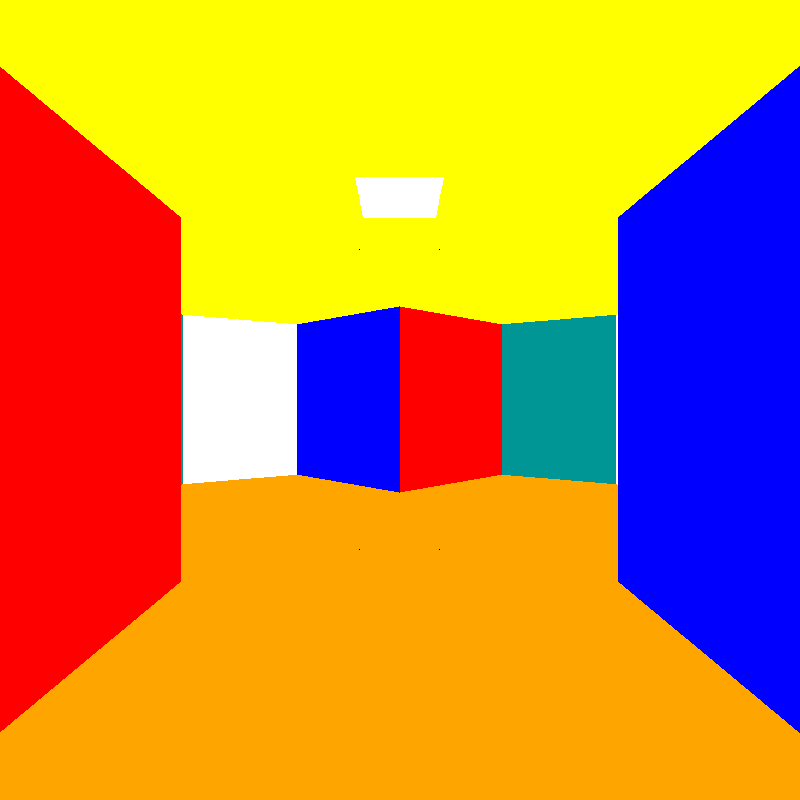
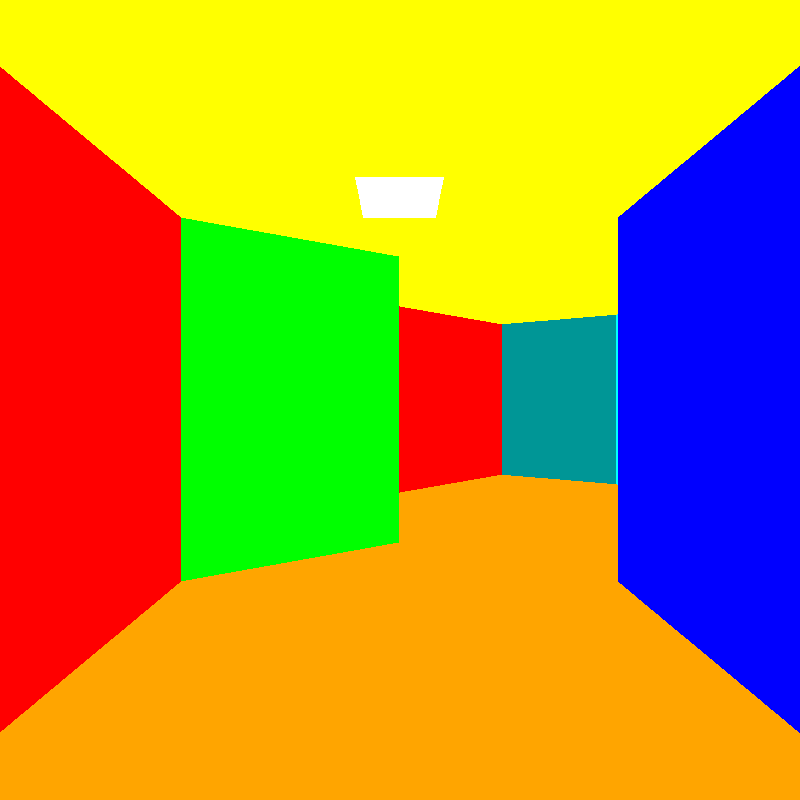
correction of the ocular error occuring during rendition of the reflective surface (W3)

Changed region(s): [[0.2188, 0.25, 0.5, 0.75]]

diff --git a/utils/MollerTrumbore.java b/utils/MollerTrumbore.java
@@ -3,8 +3,8 @@ package utils;
 import geometry.*;
 
 public class MollerTrumbore {
-
-  private static final double EPSILON = 0.0000001;
+  //9 nollor är idealt
+  private static final double EPSILON = 0.0000000001;
 
   public static boolean rayIntersectsTriangle(
     Vertex rayOrigin,

diff --git a/scene/Scene.java b/scene/Scene.java
@@ -52,7 +52,7 @@ public class Scene {
     new Vertex(-3, 0, -5),
     new Vertex(-3, 0, 5),
     new Vertex(0, -6, 5),
-    255,
+    0,
     255,
     255
   );
